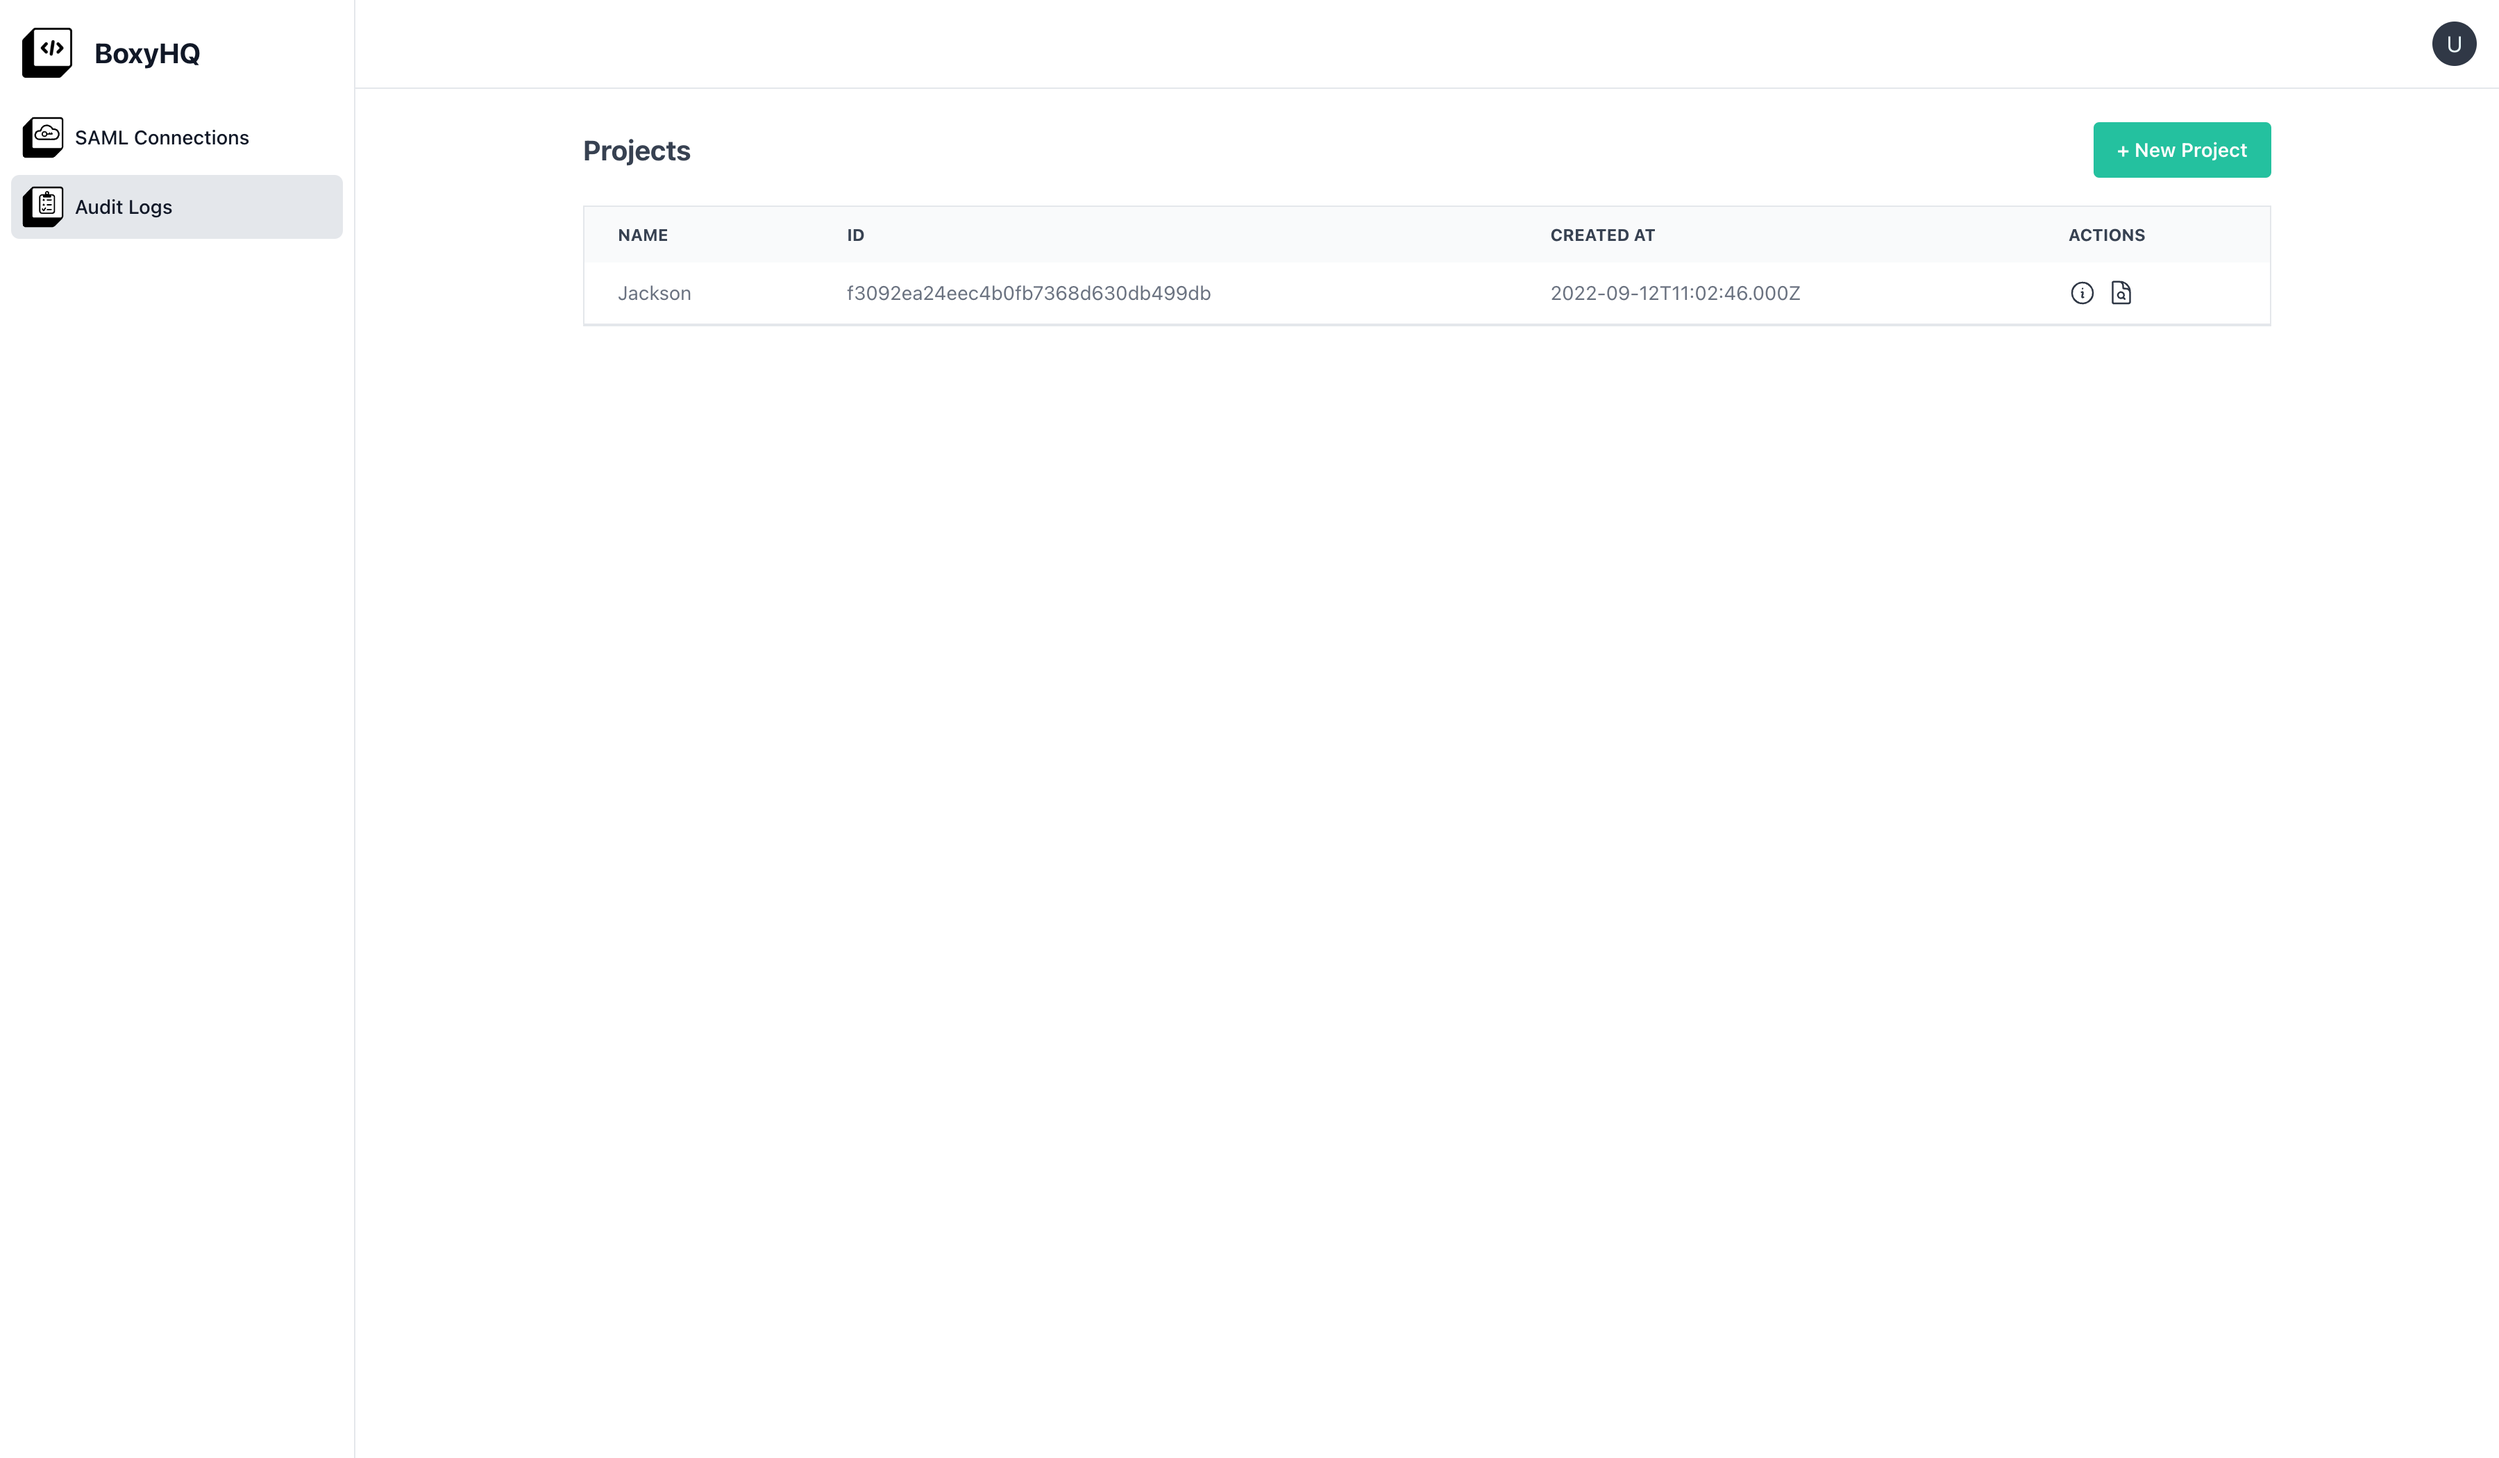
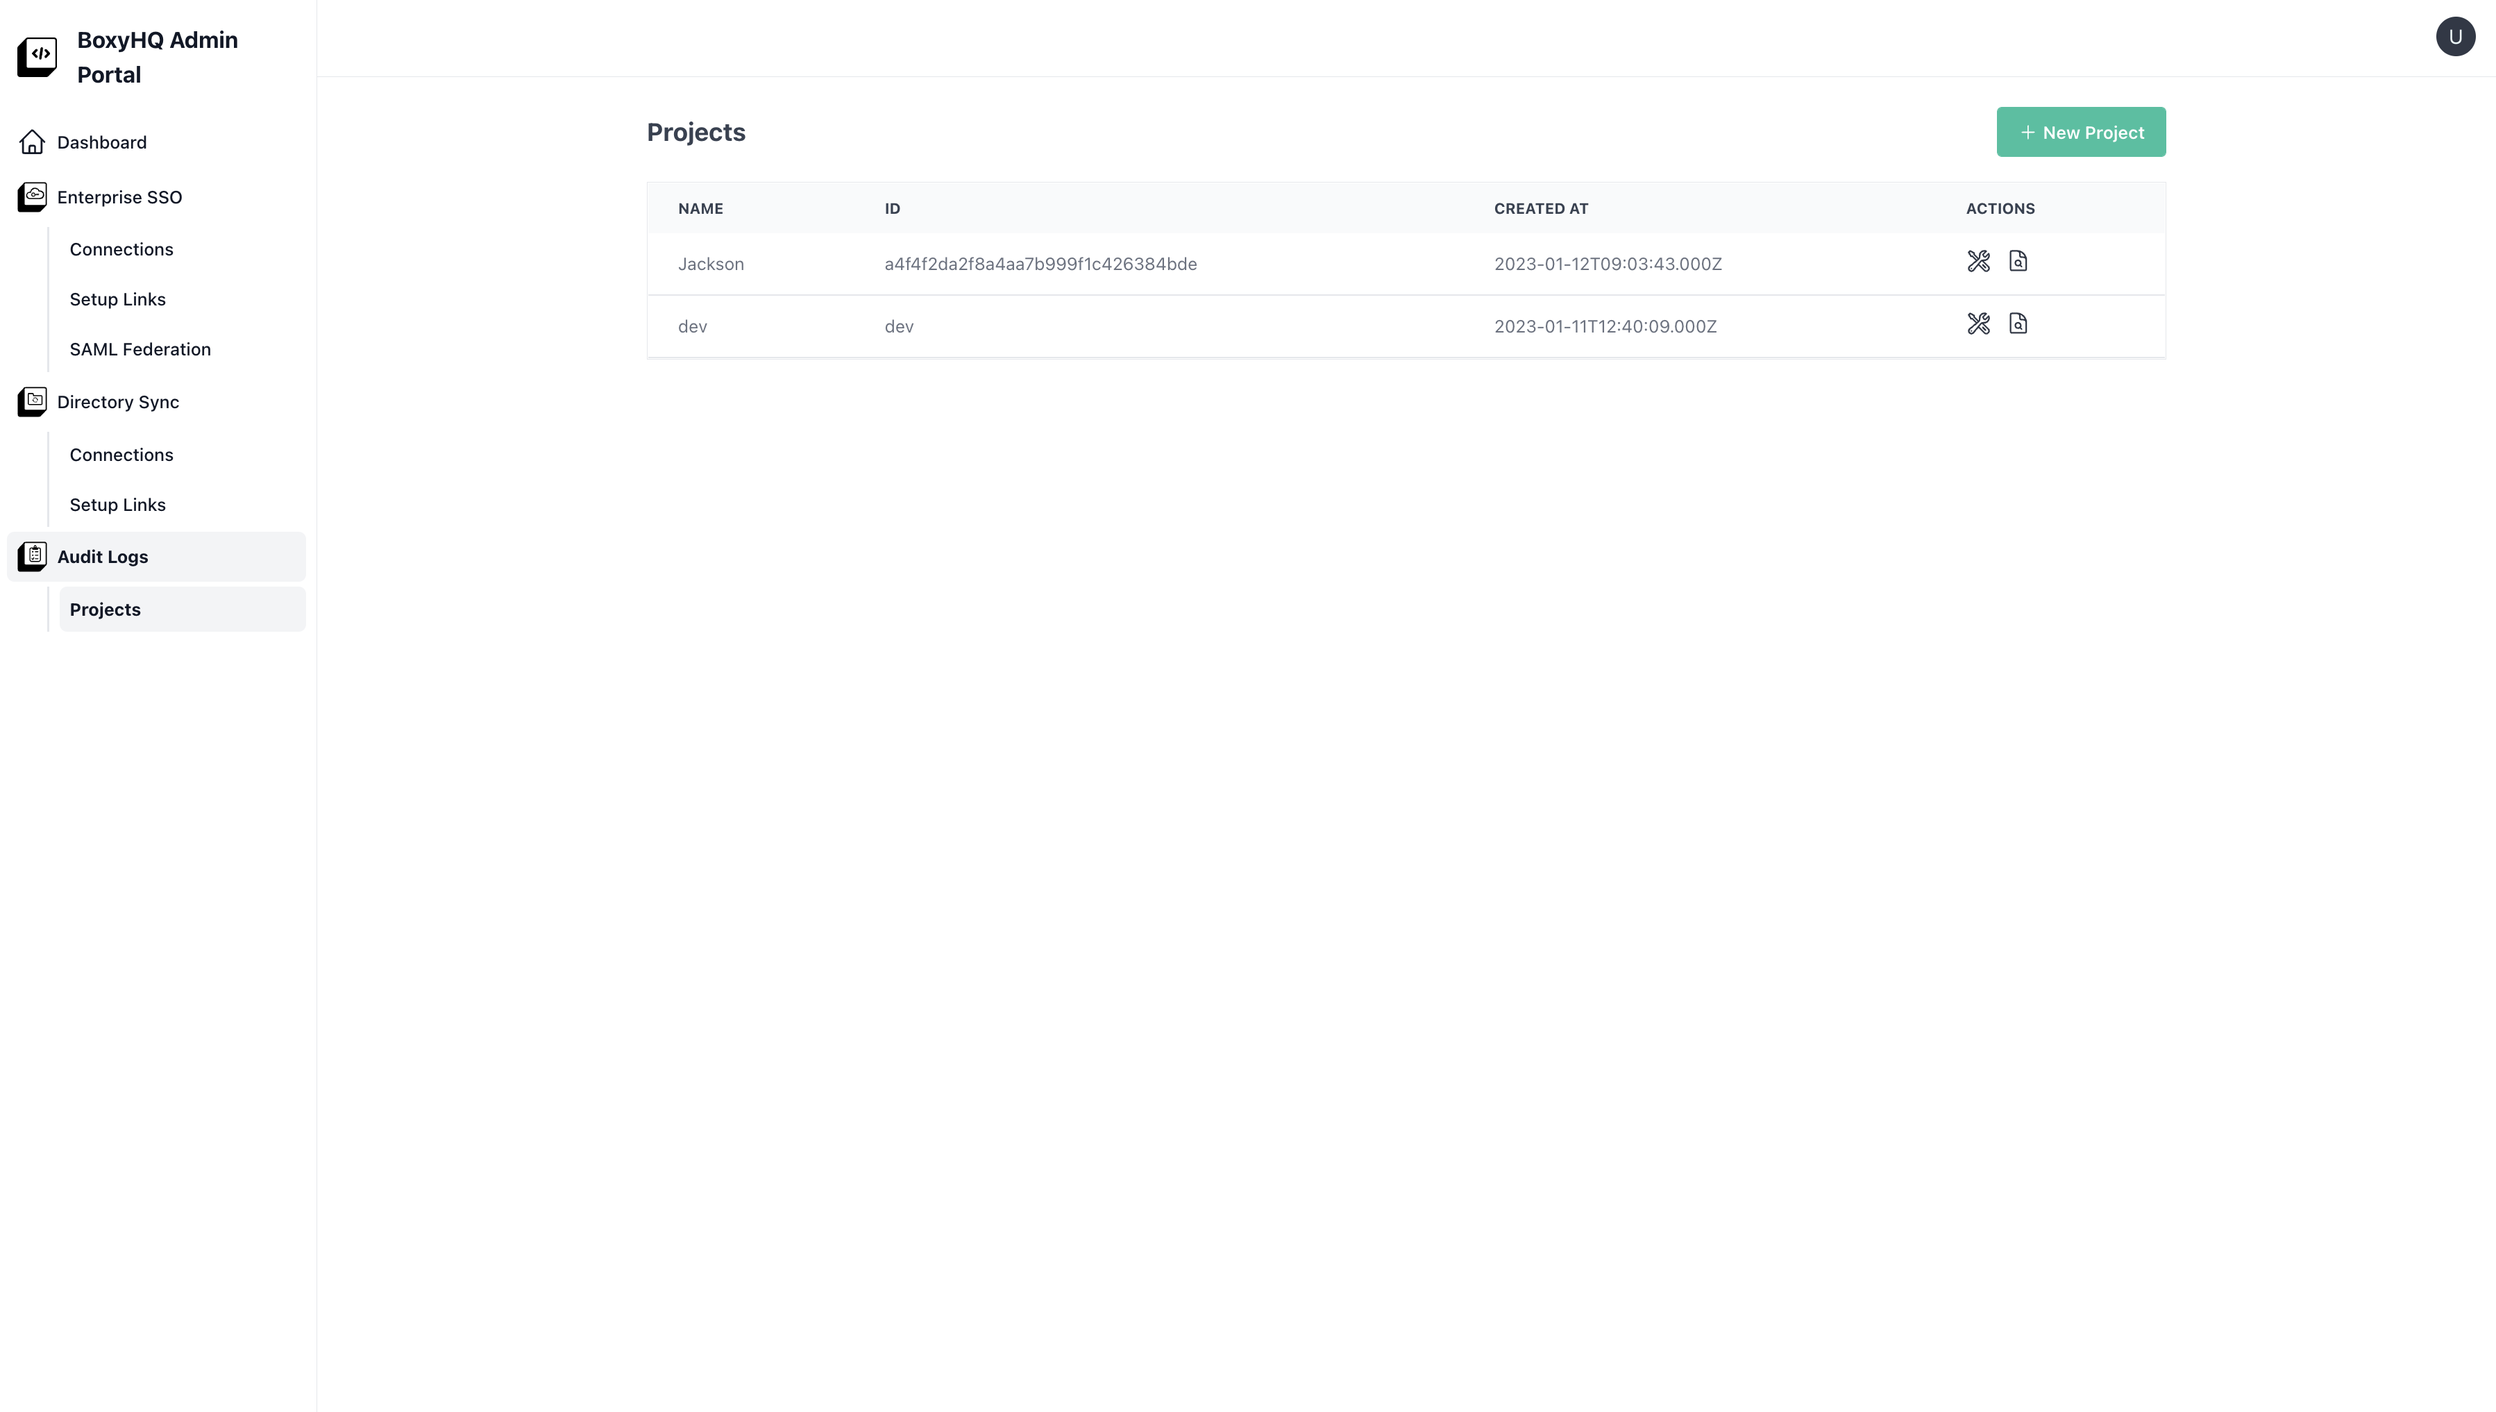
documentation updates

diff --git a/sidebars.js b/sidebars.js
@@ -86,13 +86,11 @@ module.exports = {
       collapsible: true,
       link: { type: 'doc', id: 'retraced/overview' },
       items: [
-        'retraced/overview',
         {
           type: 'category',
           label: 'Getting Started',
           link: { type: 'doc', id: 'retraced/getting-started/retraced-basics' },
           items: [
-            'retraced/getting-started/retraced-basics',
             'retraced/getting-started/embedded-viewer',
             'retraced/getting-started/first-audit-event',
             'retraced/getting-started/renaming-properties',
@@ -127,7 +125,6 @@ module.exports = {
           label: 'Architecture',
           link: { type: 'doc', id: 'retraced/architecture/index' },
           items: [
-            'retraced/architecture/index',
             'retraced/architecture/immutability-guarantee',
             'retraced/architecture/hashing-formula',
           ],
@@ -137,7 +134,6 @@ module.exports = {
           label: 'How to Audit Log',
           link: { type: 'doc', id: 'retraced/how-to-audit-log/index' },
           items: [
-            'retraced/how-to-audit-log/index',
             'retraced/how-to-audit-log/actions',
             'retraced/how-to-audit-log/actors',
             'retraced/how-to-audit-log/exportable',
@@ -152,18 +148,13 @@ module.exports = {
           type: 'category',
           label: 'SDKs',
           link: { type: 'doc', id: 'retraced/sdks/available-sdks' },
-          items: [
-            'retraced/sdks/available-sdks',
-            'retraced/sdks/golang',
-            'retraced/sdks/nodejs',
-          ],
+          items: ['retraced/sdks/golang', 'retraced/sdks/nodejs'],
         },
         {
           type: 'category',
           label: 'APIs',
           link: { type: 'doc', id: 'retraced/apis/overview' },
           items: [
-            'retraced/apis/overview',
             'retraced/apis/publisher-api',
             'retraced/apis/enterprise-api',
             'retraced/apis/admin-api',
@@ -175,7 +166,6 @@ module.exports = {
           label: 'Exposing Events',
           link: { type: 'doc', id: 'retraced/exposing-retraced-data/overview' },
           items: [
-            'retraced/exposing-retraced-data/overview',
             'retraced/exposing-retraced-data/viewer',
             'retraced/exposing-retraced-data/enterprise-api',
           ],
@@ -186,7 +176,6 @@ module.exports = {
           label: 'Advanced Retraced',
           link: { type: 'doc', id: 'retraced/advanced/index' },
           items: [
-            'retraced/advanced/index',
             'retraced/advanced/display-templates',
             'retraced/advanced/template-comparators',
             'retraced/advanced/ssh-streaming',

diff --git a/docs/retraced/admin-ui.md b/docs/retraced/admin-ui.md
@@ -23,7 +23,7 @@ Follow the below steps to login into the Admin dashboard.
 
 ## Fresh Start
 
-When you are setting up the Audit logs for the first time with Retraced, you won't have any **Projects** in the system.
+When you are setting up the Audit logs for the first time with Retraced, you won't have any **Projects** in the system or in case you run bootstrap script as a part of your deployment you will have **dev** project.
 
 <img class="mask-img" src="/images/product_images/admin-ui-retraced/fresh-start.png" />
 
@@ -38,6 +38,7 @@ You just need to enter the name of the project and click on **Create Project** b
 
 You will get see the **Project Information** after the Project is created.
 This page shows,
+
 1. Project ID
 2. Production Token
 3. Staging Token
@@ -59,14 +60,16 @@ After execution of command you should see **id & hash** as output.
 Now if you click on Audit Logs you should see newly created Project there.
 
 You can perform following actions:
-- You can click on the **i** button to open the **Project Information** page.
-- You can click on the button with **magnifying glass** to see the **logs**.
+
+- You can click on first button under actions the **tools** button to open the **Project Information** page.
+- You can click on second button under actions, the button with **magnifying glass** to see the **logs**.
 
 <img class="mask-img" src="/images/product_images/admin-ui-retraced/project-list-page.png" />
 
 ## Select Environment & Group
 
 When you create a Project by default following environments are created
+
 - Production
 - Staging
 

diff --git a/docs/retraced/deploy/skaffold.md b/docs/retraced/deploy/skaffold.md
@@ -1,23 +1,19 @@
 ---
-title: With Docker Compose
-description: With Docker Compose
+title: With Skaffold
+description: With Skaffold
 ---
 
-# With Docker Compose
+# With Skaffold
 
 ## Clone the project
 
 `git clone https://github.com/boxyhq/retraced && cd retraced`
 
-Make sure you have set the environement variables in **docker-compose** file for `Jackson` & `ADMIN_ROOT_TOKEN`.
+You can change the environment variables from `/kustomize/overlays/dev/secrets.yaml`.
 
 ## Run Retraced
 
-`docker-compose up`
-
-## Run Retraced (Without Elasticsearch)
-
-You can set `PG_SEARCH=1` under **x-common-variables** in `docker-compose.yaml`.
+`skaffold dev --status-check=false --force=true`
 
 ## See it in action
 

diff --git a/docs/retraced/deploy/index.md b/docs/retraced/deploy/index.md
@@ -7,5 +7,7 @@ There are two ways to use Retraced.
 ### 1. [Configure the environment variables](/docs/retraced/deploy/env-variables)
 
 ### 2. Start the service
-- ### a. [Running with Docker-Compose](/docs/retraced/deploy/docker-compose)
-- ### b. [Running Locally](/docs/retraced/deploy/local)
+
+- ### [Running with Docker-Compose](/docs/retraced/deploy/docker-compose)
+- ### [Running Locally](/docs/retraced/deploy/local)
+- ### [Running with Skaffold](/docs/retraced/deploy/skaffold)

diff --git a/docs/retraced/self-host/docker.md b/docs/retraced/self-host/docker.md
@@ -19,15 +19,11 @@ You need the following installed in your system:
 Please see the docker directory in the Retraced repo.
 
 ```bash
-
 # Get the code
 git clone https://github.com/retracedhq/retraced.git
 
-# Go to the docker folder
-cd retraced/docker
-
-# Copy the env vars and add your values to .env
-cp .env.example .env
+# Go to the root folder
+cd retraced
 
 # Start the Docker compose
 docker-compose up

diff --git a/docs/retraced/deploy/env-variables.md b/docs/retraced/deploy/env-variables.md
@@ -85,6 +85,10 @@ Default: `10000`
 If set to true, Retraced disables db level caching.<br />
 Caching is used for `Actor`, `Target` & `Groups` SELECT queries of audit log.
 
+### **MAXMIND_GEOLITE2_LICENSE_KEY**
+
+The `MaxMind` license key to fetch `"GeoLite2"` data.
+
 ### **TMPDIR**
 
 The path of the temporary folder used for Geo data sync.<br />

diff --git a/docs/retraced/deploy/local.md b/docs/retraced/deploy/local.md
@@ -7,7 +7,7 @@ description: Running Locally
 
 ## Clone the project
 
-`git clone https://github.com/boxyhq/retraced`
+`git clone https://github.com/boxyhq/retraced && cd retraced`
 
 ## Install Dependancies
 
